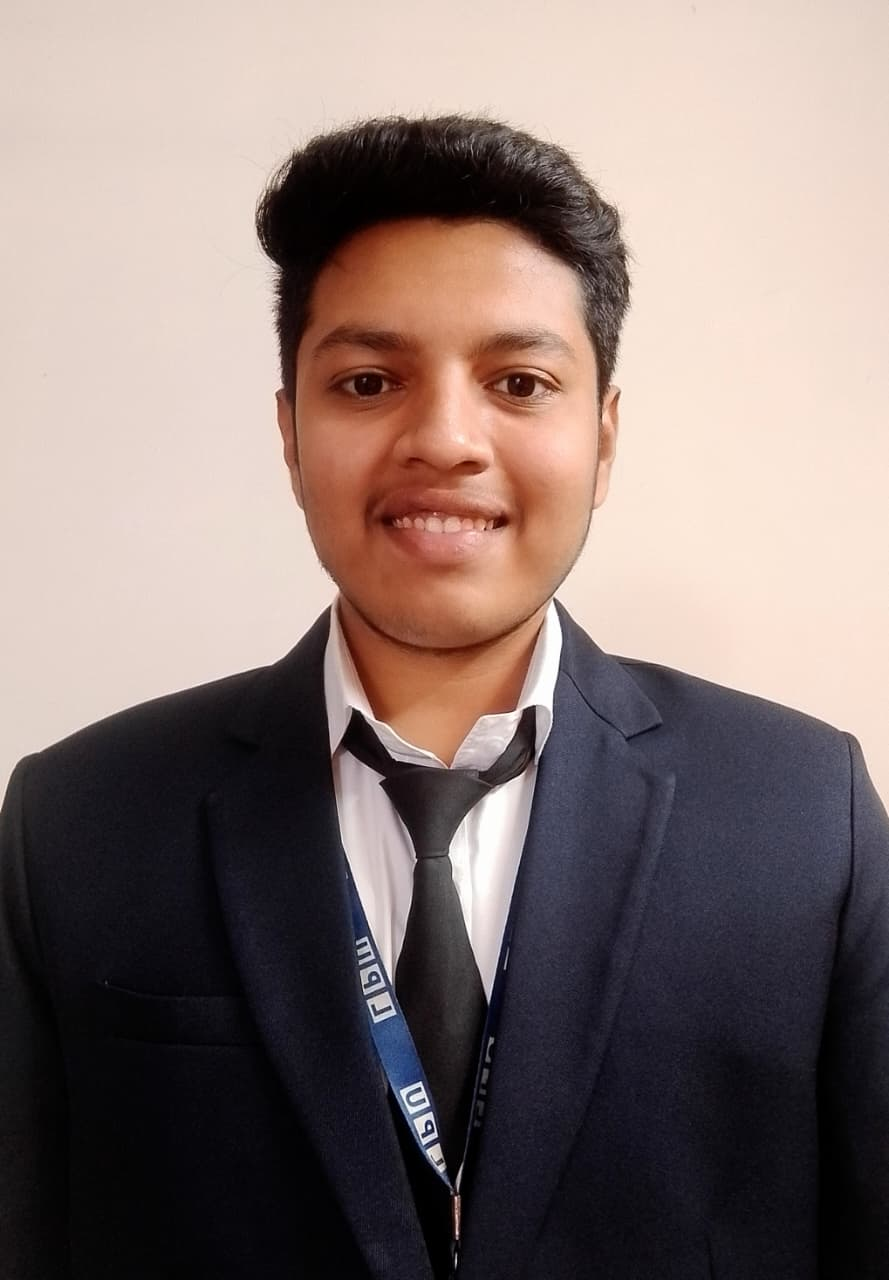
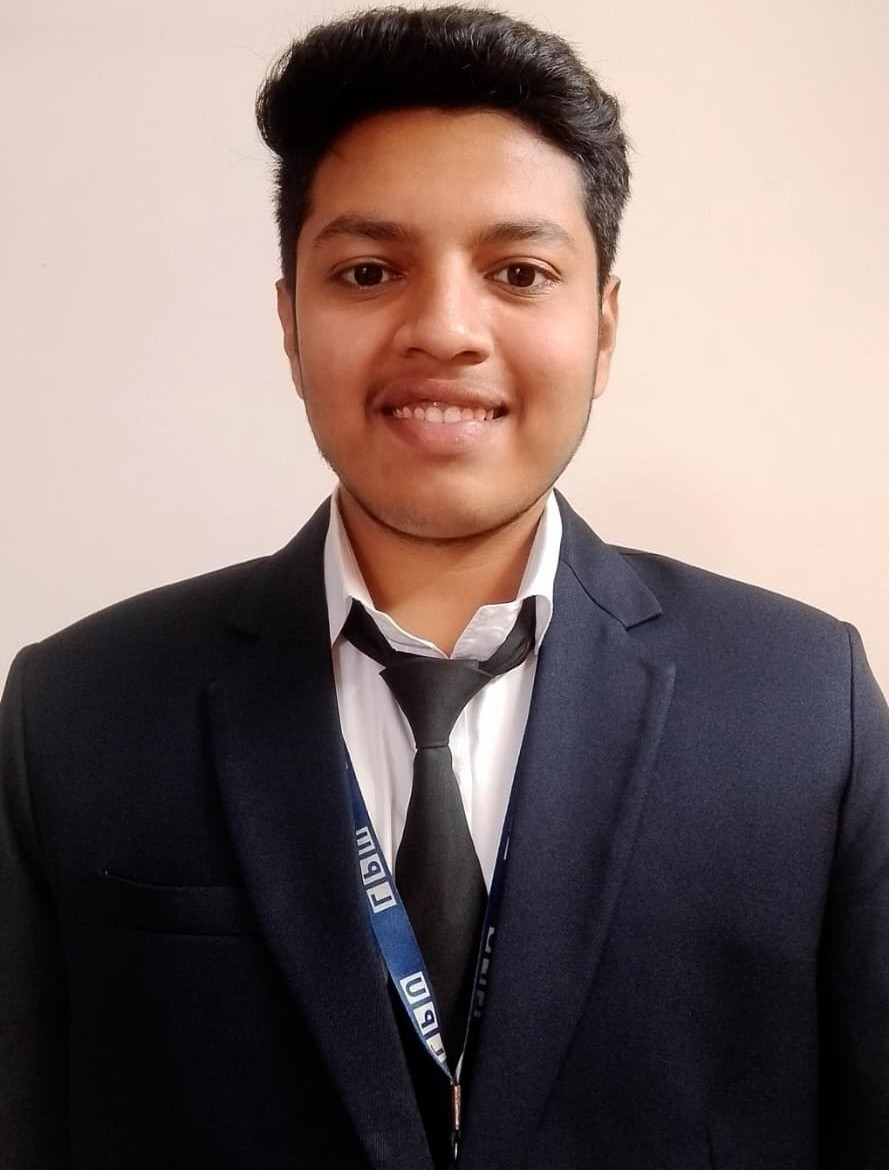
Initial portfolio

Changed region(s): [[0.0, 0.0, 1.0, 0.9538], [0.6985, 0.6154, 0.7289, 0.6462]]

diff --git a/index.html b/index.html
@@ -345,21 +345,21 @@
                 <span class="cert-date"><i class="fas fa-calendar"></i> Apr 2025</span>
               </div>
             </div>
-            <div class="cert-card" id="cert-hackathon" onclick="openLightbox('assets/cert-hackathon.png', 'Code Off Duty Hackathon Certificate')">
+            <div class="cert-card" id="cert-freecodecamp" onclick="openLightbox('assets/cert-freecodecamp.png', 'FreeCodeCamp HTML &amp; CSS Certificate')">
               <div class="cert-img-wrap">
-                <img alt="Code Off Duty Hackathon Certificate" class="cert-img"
+                <img alt="FreeCodeCamp HTML CSS Certificate" class="cert-img"
                   onerror="this.style.display='none'; this.nextElementSibling.style.display='flex';"
-                  src="assets/cert-hackathon.png" />
+                  src="assets/cert-freecodecamp.png" />
                 <div class="cert-placeholder">
-                  <i class="fas fa-code"></i>
-                  <span>Hackathon</span>
+                  <i class="fab fa-html5"></i>
+                  <span>HTML &amp; CSS</span>
                   <small>Add image here</small>
                 </div>
               </div>
               <div class="cert-info">
-                <h4>Web Hackathon</h4>
-                <span><i class="fas fa-laptop-code"></i> Code Off Duty</span>
-                <span class="cert-date"><i class="fas fa-calendar"></i> Mar 2024</span>
+                <h4>HTML, CSS</h4>
+                <span><i class="fas fa-code"></i> Freecodecamp</span>
+                <span class="cert-date"><i class="fas fa-calendar"></i> Oct 2023</span>
               </div>
             </div>
           </div>
@@ -369,7 +369,7 @@
             <div class="journey-icon"><i class="fas fa-trophy"></i></div>
             <h3>Achievements</h3>
           </div>
-          <div class="achievement-card" onclick="openLightbox('assets/cert-hackathon.png', 'Code Off Duty Hackathon Certificate')" style="cursor: pointer;">
+          <div class="achievement-card">
             <div class="achieve-icon"><i class="fas fa-medal"></i></div>
             <div class="achieve-content">
               <div class="achieve-header">

diff --git a/style.css b/style.css
@@ -305,7 +305,7 @@ ul { list-style: none; }
   background: var(--bg-card);
   border: 4px solid var(--bg-primary);
 }
-.hero-img { width:100%; height:100%; object-fit: cover; }
+.hero-img { width:100%; height:100%; object-fit: cover; object-position: center top; }
 .hero-img-placeholder {
   width:100%; height:100%;
   display: flex;
